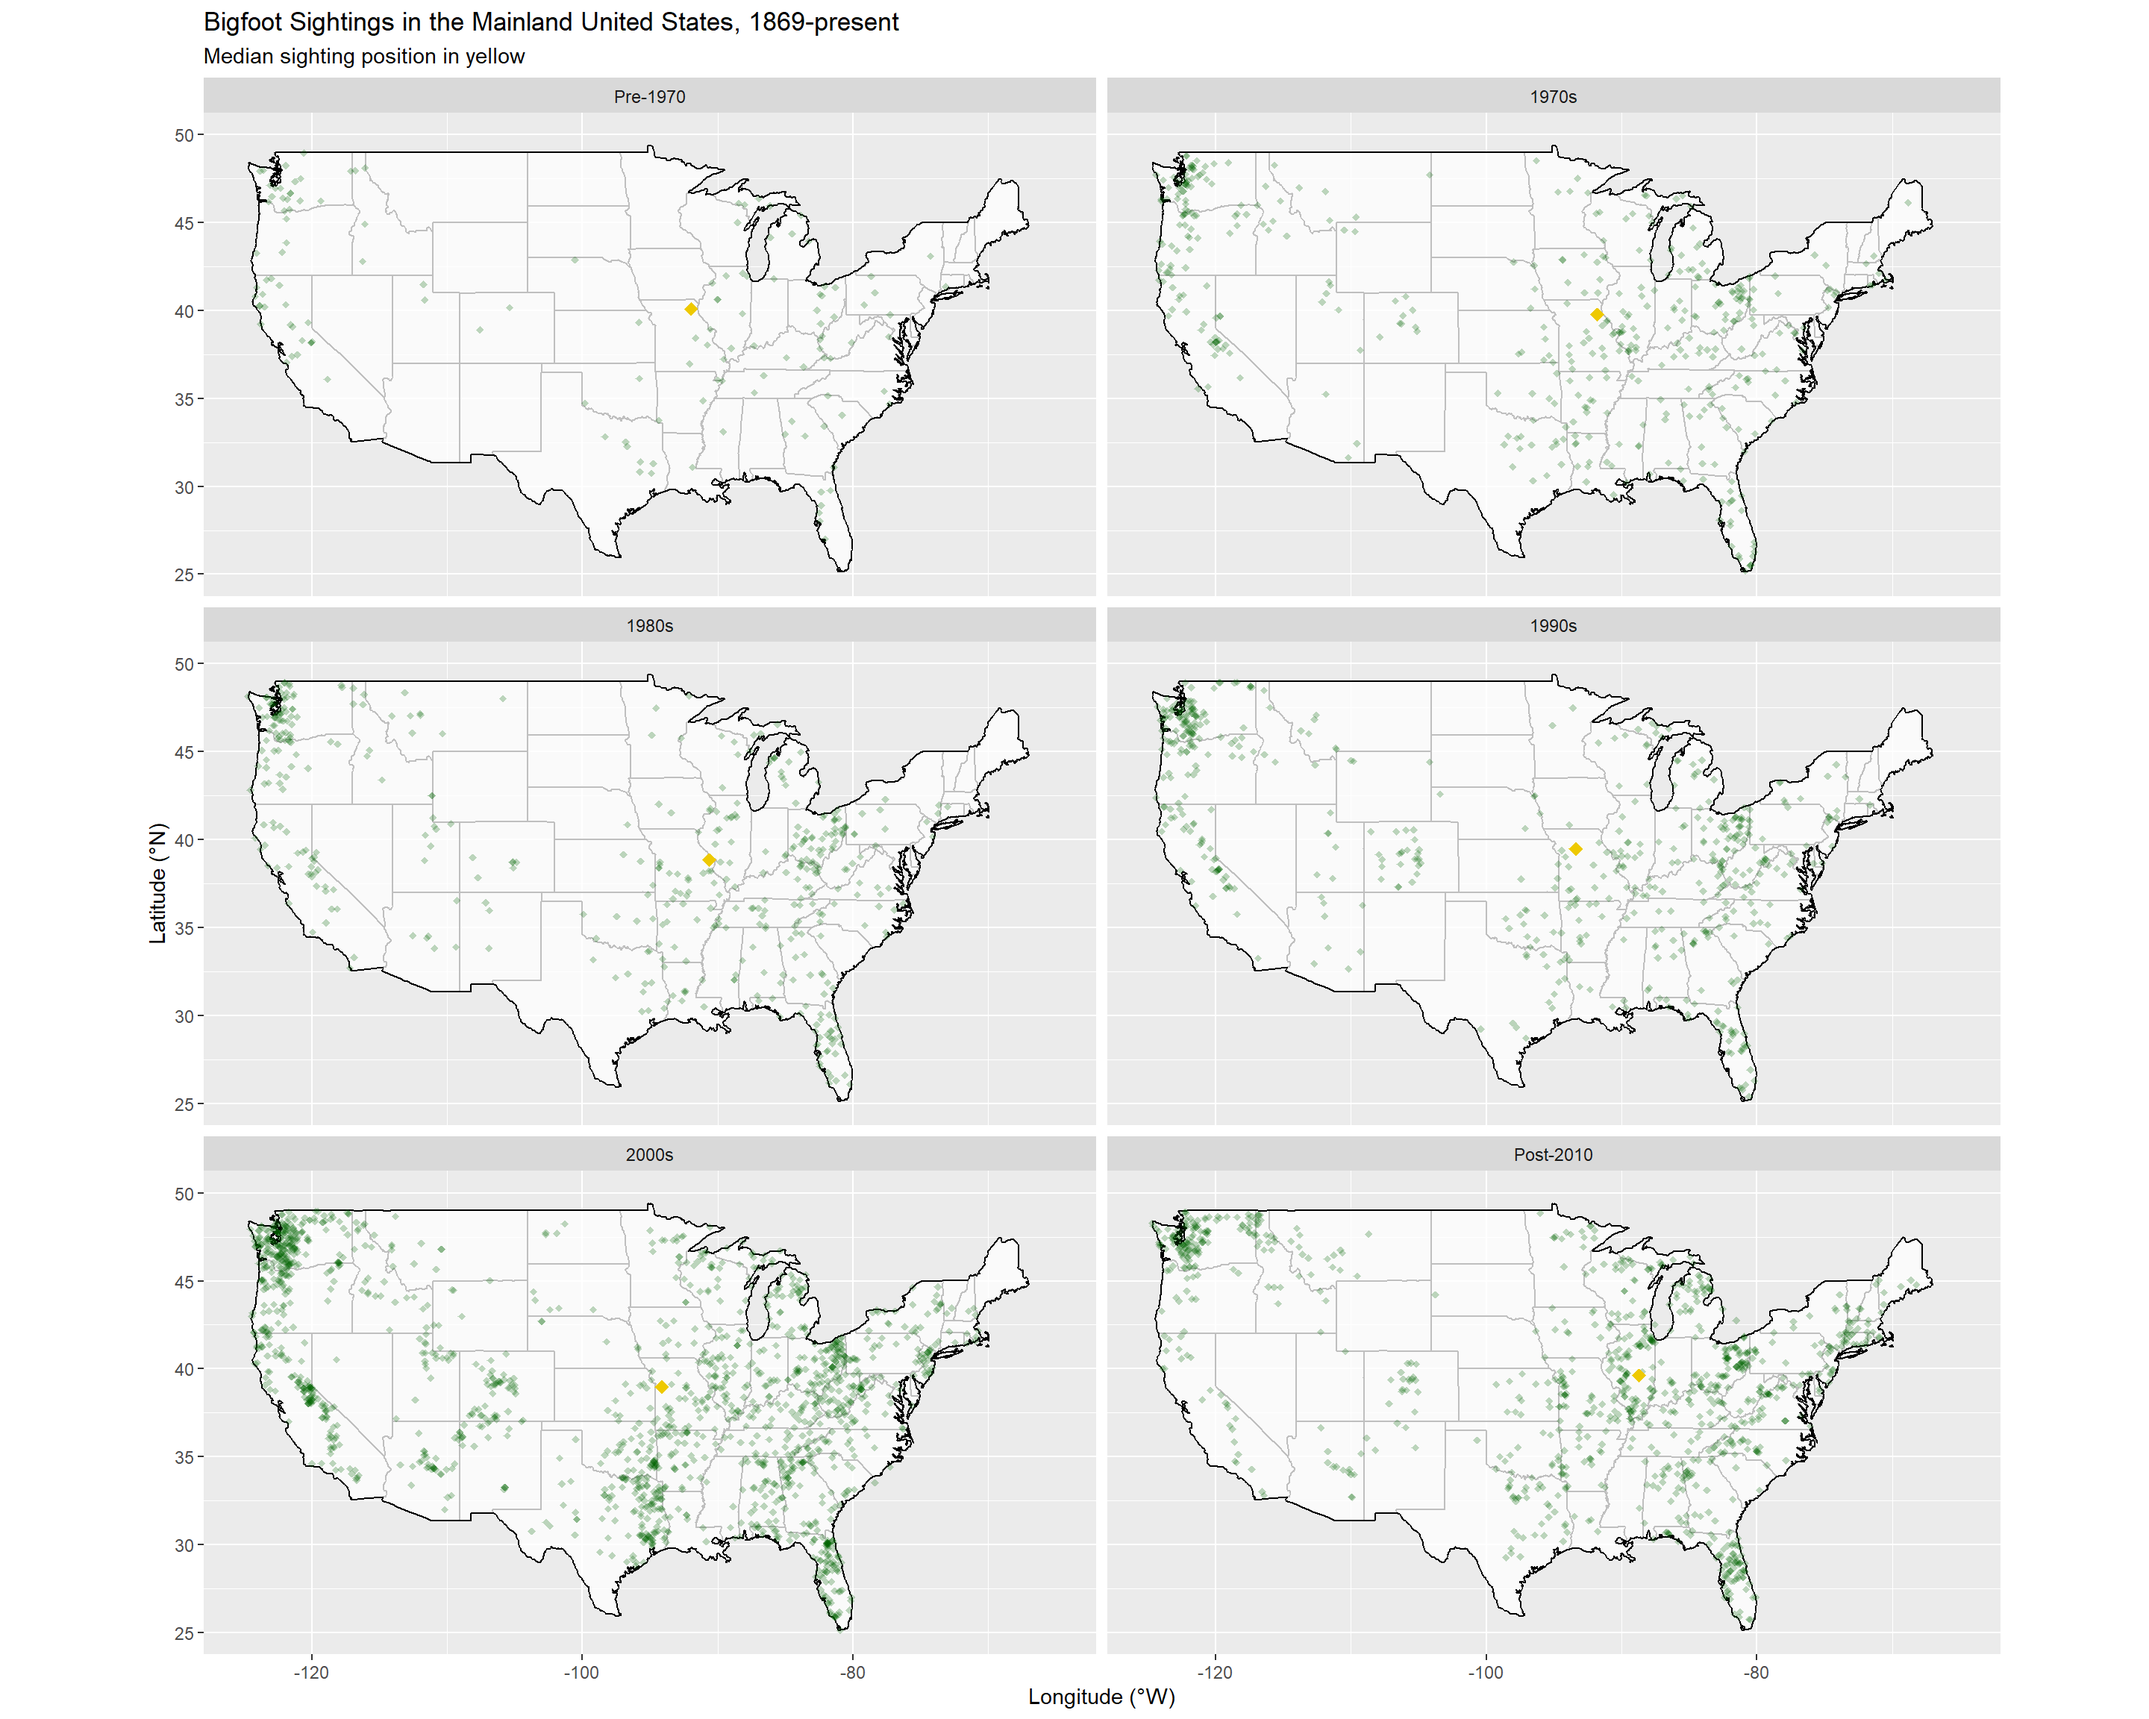
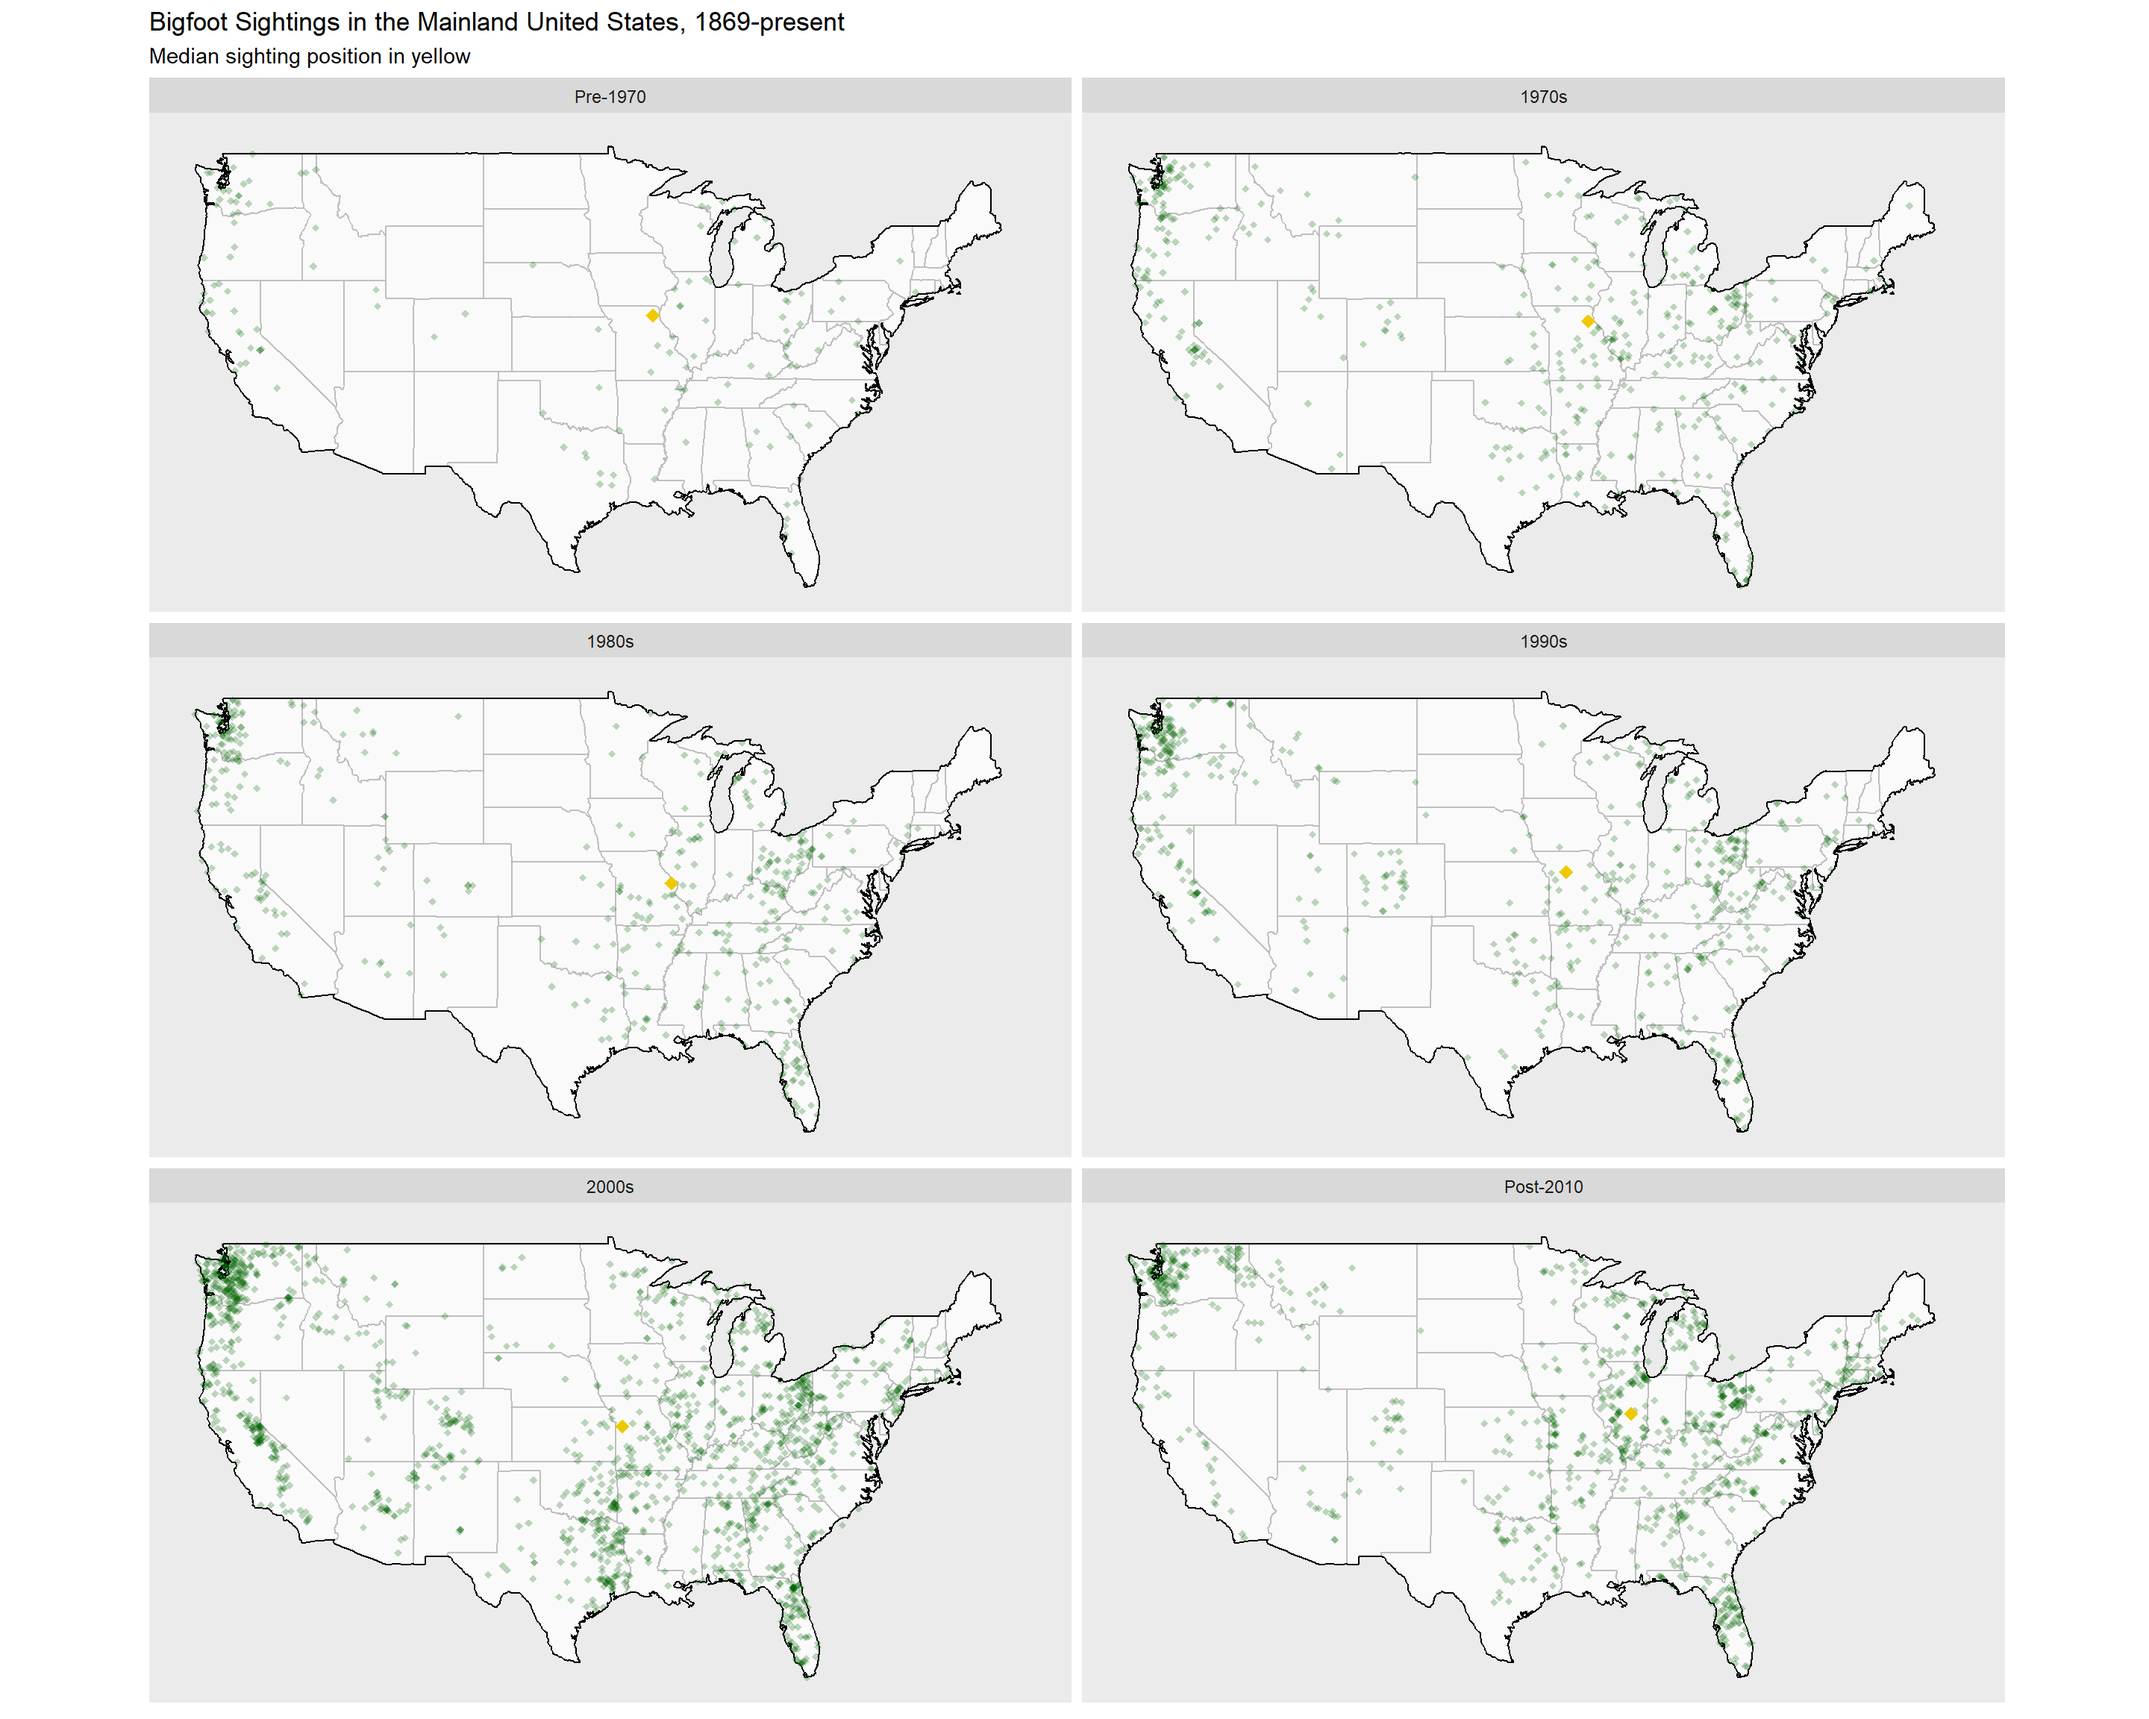
First question plots for no. 1

diff --git a/_extra/Matt working on the first plot/PlotTastic.html b/_extra/Matt working on the first plot/PlotTastic.html
@@ -119,13 +119,64 @@ code span.wa { color: #60a0b0; font-weight: bold; font-style: italic; } /* Warni
 <span id="cb1-8"><a href="#cb1-8" aria-hidden="true" tabindex="-1"></a><span class="fu">library</span>(maps)</span>
 <span id="cb1-9"><a href="#cb1-9" aria-hidden="true" tabindex="-1"></a><span class="fu">library</span>(mapdata)</span>
 <span id="cb1-10"><a href="#cb1-10" aria-hidden="true" tabindex="-1"></a><span class="fu">setwd</span>(<span class="st">"~/DataVizClass/project-1-the_tibbles"</span>)</span>
-<span id="cb1-11"><a href="#cb1-11" aria-hidden="true" tabindex="-1"></a>bigfoot <span class="ot">&lt;-</span> readr<span class="sc">::</span><span class="fu">read_csv</span>(<span class="st">'data/bigfoot.csv'</span>)</span></code><button title="Copy to Clipboard" class="code-copy-button"><i class="bi"></i></button></pre></div>
+<span id="cb1-11"><a href="#cb1-11" aria-hidden="true" tabindex="-1"></a>bigfoot <span class="ot">&lt;-</span> readr<span class="sc">::</span><span class="fu">read_csv</span>(<span class="st">'data/bigfoot.csv'</span>)</span>
+<span id="cb1-12"><a href="#cb1-12" aria-hidden="true" tabindex="-1"></a></span>
+<span id="cb1-13"><a href="#cb1-13" aria-hidden="true" tabindex="-1"></a>bigfoot_xy <span class="ot">&lt;-</span> bigfoot <span class="sc">%&gt;%</span> <span class="fu">select</span>(latitude,</span>
+<span id="cb1-14"><a href="#cb1-14" aria-hidden="true" tabindex="-1"></a>                                 longitude,</span>
+<span id="cb1-15"><a href="#cb1-15" aria-hidden="true" tabindex="-1"></a>                                 date)</span>
+<span id="cb1-16"><a href="#cb1-16" aria-hidden="true" tabindex="-1"></a>bigfoot_xy <span class="ot">&lt;-</span> bigfoot_xy <span class="sc">%&gt;%</span> <span class="fu">filter</span>(<span class="sc">!</span><span class="fu">is.na</span>(latitude) <span class="sc">&amp;</span> </span>
+<span id="cb1-17"><a href="#cb1-17" aria-hidden="true" tabindex="-1"></a>                                      <span class="sc">!</span><span class="fu">is.na</span>(longitude) <span class="sc">&amp;</span> </span>
+<span id="cb1-18"><a href="#cb1-18" aria-hidden="true" tabindex="-1"></a>                                      <span class="sc">!</span><span class="fu">is.na</span>(date))</span>
+<span id="cb1-19"><a href="#cb1-19" aria-hidden="true" tabindex="-1"></a>bigfoot_xy <span class="ot">&lt;-</span> bigfoot_xy <span class="sc">%&gt;%</span> <span class="fu">mutate</span>(<span class="at">date =</span> <span class="fu">as.integer</span>(<span class="fu">substring</span>(date,</span>
+<span id="cb1-20"><a href="#cb1-20" aria-hidden="true" tabindex="-1"></a>                                                                <span class="dv">1</span>,</span>
+<span id="cb1-21"><a href="#cb1-21" aria-hidden="true" tabindex="-1"></a>                                                                <span class="dv">4</span>)))</span>
+<span id="cb1-22"><a href="#cb1-22" aria-hidden="true" tabindex="-1"></a>usa <span class="ot">&lt;-</span> <span class="fu">map_data</span>(<span class="st">'usa'</span>)</span>
+<span id="cb1-23"><a href="#cb1-23" aria-hidden="true" tabindex="-1"></a>state <span class="ot">&lt;-</span> <span class="fu">map_data</span>(<span class="st">'state'</span>)</span>
+<span id="cb1-24"><a href="#cb1-24" aria-hidden="true" tabindex="-1"></a>bigfoot_xy <span class="ot">&lt;-</span> bigfoot_xy <span class="sc">%&gt;%</span> </span>
+<span id="cb1-25"><a href="#cb1-25" aria-hidden="true" tabindex="-1"></a>  <span class="fu">mutate</span>(<span class="at">alt_date =</span> <span class="fu">as.integer</span>(<span class="fu">substring</span>(date,<span class="dv">1</span>,<span class="dv">3</span>))<span class="sc">*</span><span class="dv">10</span>)</span>
+<span id="cb1-26"><a href="#cb1-26" aria-hidden="true" tabindex="-1"></a>bigfoot_xy <span class="ot">&lt;-</span> bigfoot_xy <span class="sc">%&gt;%</span> </span>
+<span id="cb1-27"><a href="#cb1-27" aria-hidden="true" tabindex="-1"></a>  <span class="fu">mutate</span>(<span class="at">decade =</span> <span class="fu">paste</span>(<span class="fu">substring</span>(date,<span class="dv">1</span>,<span class="dv">3</span>),<span class="st">"0s"</span>,</span>
+<span id="cb1-28"><a href="#cb1-28" aria-hidden="true" tabindex="-1"></a>                        <span class="at">sep =</span> <span class="st">""</span>))</span>
+<span id="cb1-29"><a href="#cb1-29" aria-hidden="true" tabindex="-1"></a>bigfoot_xy <span class="ot">&lt;-</span> bigfoot_xy <span class="sc">%&gt;%</span> </span>
+<span id="cb1-30"><a href="#cb1-30" aria-hidden="true" tabindex="-1"></a>  <span class="fu">mutate</span>(<span class="at">decade=</span><span class="fu">ifelse</span>(date<span class="sc">&lt;</span><span class="dv">1970</span>,</span>
+<span id="cb1-31"><a href="#cb1-31" aria-hidden="true" tabindex="-1"></a>                       <span class="st">"Pre-1970"</span>,</span>
+<span id="cb1-32"><a href="#cb1-32" aria-hidden="true" tabindex="-1"></a>                       decade))</span>
+<span id="cb1-33"><a href="#cb1-33" aria-hidden="true" tabindex="-1"></a>bigfoot_xy <span class="ot">&lt;-</span> bigfoot_xy <span class="sc">%&gt;%</span> </span>
+<span id="cb1-34"><a href="#cb1-34" aria-hidden="true" tabindex="-1"></a>  <span class="fu">mutate</span>(<span class="at">decade=</span><span class="fu">ifelse</span>(date<span class="sc">&gt;</span><span class="dv">2009</span>,</span>
+<span id="cb1-35"><a href="#cb1-35" aria-hidden="true" tabindex="-1"></a>                       <span class="st">"Post-2010"</span>,</span>
+<span id="cb1-36"><a href="#cb1-36" aria-hidden="true" tabindex="-1"></a>                       decade))</span>
+<span id="cb1-37"><a href="#cb1-37" aria-hidden="true" tabindex="-1"></a>bigfoot_xy <span class="ot">&lt;-</span> bigfoot_xy <span class="sc">%&gt;%</span> </span>
+<span id="cb1-38"><a href="#cb1-38" aria-hidden="true" tabindex="-1"></a>  <span class="fu">mutate</span>(<span class="at">decade=</span><span class="fu">factor</span>(decade,</span>
+<span id="cb1-39"><a href="#cb1-39" aria-hidden="true" tabindex="-1"></a>                       <span class="at">levels=</span><span class="fu">c</span>(<span class="st">"Pre-1970"</span>,</span>
+<span id="cb1-40"><a href="#cb1-40" aria-hidden="true" tabindex="-1"></a>                                <span class="st">"1970s"</span>,</span>
+<span id="cb1-41"><a href="#cb1-41" aria-hidden="true" tabindex="-1"></a>                                <span class="st">"1980s"</span>,</span>
+<span id="cb1-42"><a href="#cb1-42" aria-hidden="true" tabindex="-1"></a>                                <span class="st">"1990s"</span>,</span>
+<span id="cb1-43"><a href="#cb1-43" aria-hidden="true" tabindex="-1"></a>                                <span class="st">"2000s"</span>,</span>
+<span id="cb1-44"><a href="#cb1-44" aria-hidden="true" tabindex="-1"></a>                                <span class="st">"Post-2010"</span>)))</span>
+<span id="cb1-45"><a href="#cb1-45" aria-hidden="true" tabindex="-1"></a></span>
+<span id="cb1-46"><a href="#cb1-46" aria-hidden="true" tabindex="-1"></a>bigfoot_xy_mL <span class="ot">&lt;-</span> bigfoot_xy <span class="sc">%&gt;%</span> <span class="fu">filter</span>(longitude <span class="sc">&gt;</span> <span class="sc">-</span> <span class="dv">125</span> <span class="sc">&amp;</span> </span>
+<span id="cb1-47"><a href="#cb1-47" aria-hidden="true" tabindex="-1"></a>                                         longitude <span class="sc">&lt;</span> <span class="sc">-</span><span class="dv">65</span> <span class="sc">&amp;</span> </span>
+<span id="cb1-48"><a href="#cb1-48" aria-hidden="true" tabindex="-1"></a>                                         latitude <span class="sc">&gt;</span> <span class="dv">25</span> <span class="sc">&amp;</span> </span>
+<span id="cb1-49"><a href="#cb1-49" aria-hidden="true" tabindex="-1"></a>                                         latitude <span class="sc">&lt;</span> <span class="dv">50</span>)</span>
+<span id="cb1-50"><a href="#cb1-50" aria-hidden="true" tabindex="-1"></a>bigfoot_xy_mL_B <span class="ot">&lt;-</span> bigfoot_xy_mL <span class="sc">%&gt;%</span> </span>
+<span id="cb1-51"><a href="#cb1-51" aria-hidden="true" tabindex="-1"></a>  <span class="fu">group_by</span>(decade) <span class="sc">%&gt;%</span> </span>
+<span id="cb1-52"><a href="#cb1-52" aria-hidden="true" tabindex="-1"></a>  <span class="fu">summarise</span>(<span class="at">longitude =</span> <span class="fu">median</span>(longitude),</span>
+<span id="cb1-53"><a href="#cb1-53" aria-hidden="true" tabindex="-1"></a>            <span class="at">latitude=</span><span class="fu">median</span>(latitude))</span></code><button title="Copy to Clipboard" class="code-copy-button"><i class="bi"></i></button></pre></div>
 </div>
 <div class="cell" data-layout-align="center">
 <div class="cell-output-display">
 <div class="quarto-figure quarto-figure-center">
 <figure class="figure">
 <p><img src="PlotTastic_files/figure-html/question-1-figure-1-plot-1%20-1.png" class="img-fluid figure-img" width="1440"></p>
+</figure>
+</div>
+</div>
+</div>
+<div class="cell" data-layout-align="center">
+<div class="cell-output-display">
+<div class="quarto-figure quarto-figure-center">
+<figure class="figure">
+<p><img src="PlotTastic_files/figure-html/question-1-figure-1-plot-2%20-1.png" class="img-fluid figure-img" width="1440"></p>
 </figure>
 </div>
 </div>
